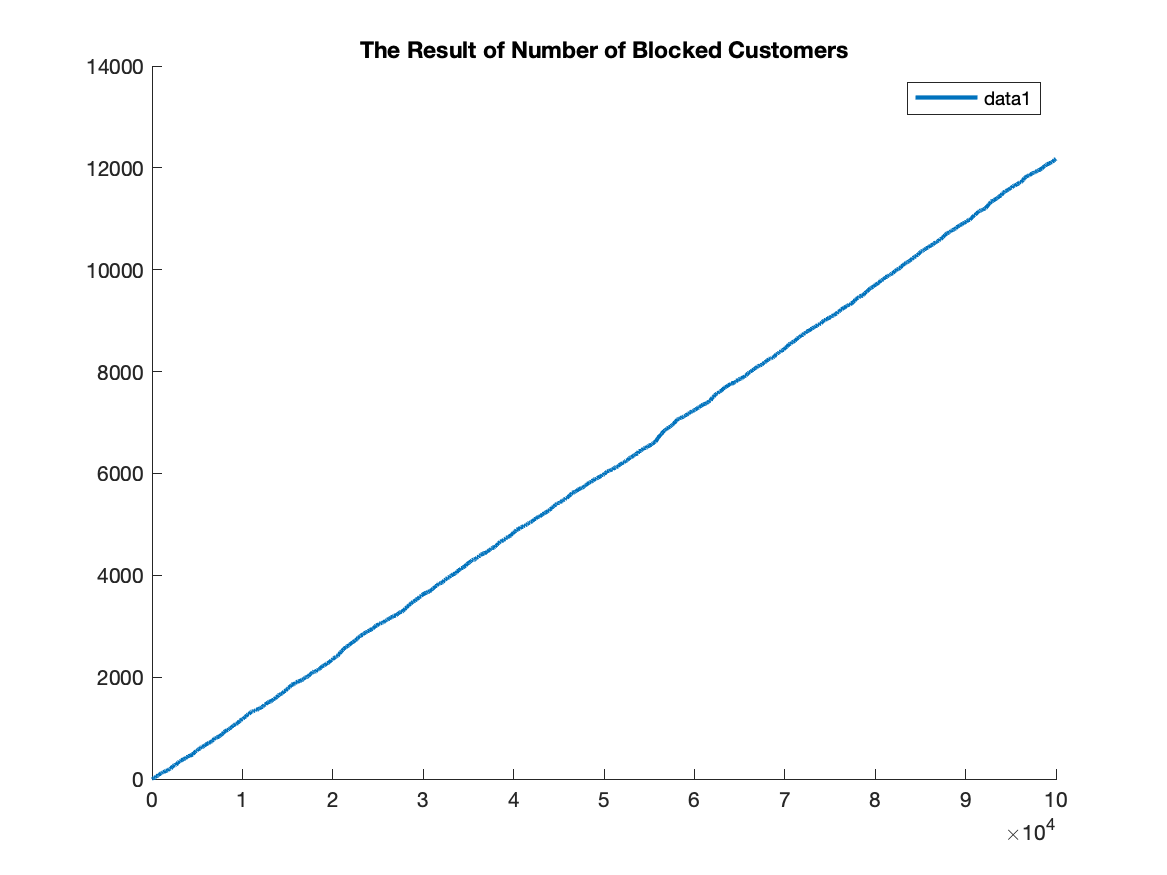
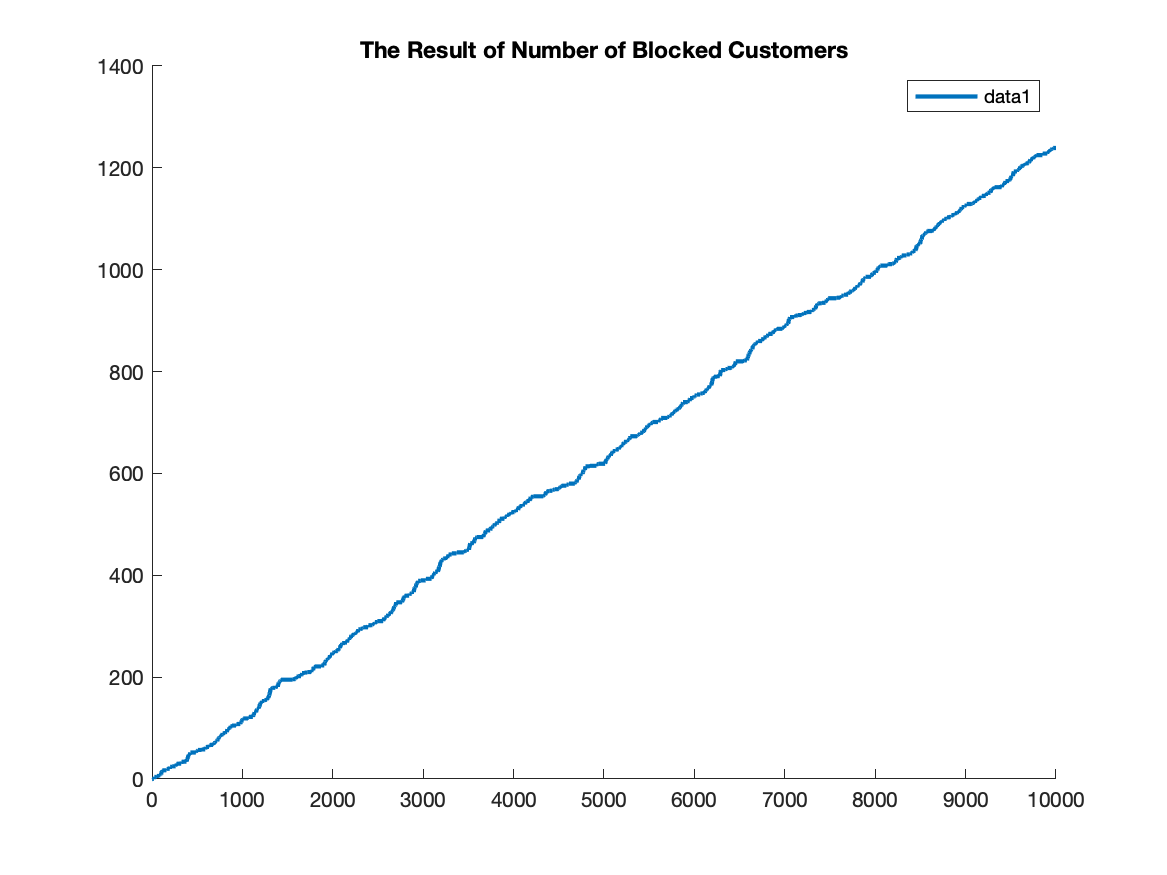
update

diff --git a/exercise4/setup.m b/exercise4/setup.m
@@ -8,13 +8,15 @@
 addpath("~/Documents/GitHub/StochasticSim/exercise4")
 % 1,  Define Basic Parameters ##########################################################################################
 nServer = 10;
-nCustomer = 100000;
-nSim = 10;
-nStable = nCustomer * 0.01;
+nCustomer = 11000;
+nSim = 100;
+nStable = 1000;  % nCustomer * 0.01;
 clockSimZero = 0;
+mu = 1;
+lambda = 8;
 % 2,  Define Functions for Length of Arrival Intervals and Serving Time ################################################
-[funcArrive, vecParaArrive] = getFunc("expArrive");
-[funcServe, vecParaServe] = getFunc("expServe");
+[funcArrive, vecParaArrive] = getFunc("expArrive", mu, lambda);
+[funcServe, vecParaServe] = getFunc("expServe", mu, lambda);
 % 3,  Begin `nSim`-Times Simulations ###################################################################################
 tic
 nEvent = nCustomer;
@@ -52,13 +54,11 @@ fprintf("Control Variate: var(vecZ) = %f.\n", var(vecZ));
 fprintf("Control Variate: lowerConfiInterval(vecZ) = %f.\n", boundLower);
 fprintf("Control Variate: upperConfiInterval(vecZ) = %f.\n", boundUpper);
 % 6,  Functions ########################################################################################################
-function [func, vecPara] = getFunc(whiFunc)
+function [func, vecPara] = getFunc(whiFunc, mu, lambda)
     if whiFunc == "expArrive"
-        mu = 1;
         func = @exprnd;
         vecPara = mu;
     elseif whiFunc == "expServe"
-        lambda = 8;
         func = @exprnd;
         vecPara = lambda;
     elseif  whiFunc == "cons"

diff --git a/exercise4/simDiscreteEvent.m b/exercise4/simDiscreteEvent.m
@@ -7,19 +7,21 @@ function [b, sState] = simDiscreteEvent(clockSimZero, nServer, nEvent, funcArriv
     vecParaServe)
     % 1,  Initiate State Variables
     sState(1).intervalArrive = funcArrive(vecParaArrive);
+    sState(1).timeServe = funcServe(vecParaServe);
     sState(1).clockSim = clockSimZero + sState(1).intervalArrive;
     [sState(1).nCustomerServe, sState(1).nCustomerBlock, sState(1).vecTimeDepart] = updateStateBlock( ...
-        sState(1).clockSim, nServer, 0, 0, zeros(nServer, 1), funcServe, vecParaServe);
+        sState(1).clockSim, nServer, 0, 0, zeros(nServer, 1), sState(1).timeServe);
     sState(1).b = sState(1).nCustomerBlock / 1;
     % 2,  Begin Simulation
     for i = 2:nEvent
         % 2.1,  Next event happens: a new customer has arrived.
         sState(i).intervalArrive = funcArrive(vecParaArrive);
+        sState(i).timeServe = funcServe(vecParaServe);
         sState(i).clockSim = sState(i-1).clockSim + sState(i).intervalArrive;
         % 2.2,  Evolution of State Variables
         [sState(i).nCustomerServe, sState(i).nCustomerBlock, sState(i).vecTimeDepart] = updateStateBlock( ...
             sState(i).clockSim, nServer, sState(i-1).nCustomerServe, sState(i-1).nCustomerBlock, ...
-            sState(i-1).vecTimeDepart, funcServe, vecParaServe);
+            sState(i-1).vecTimeDepart, sState(i).timeServe);
         sState(i).b = sState(i).nCustomerBlock / i;
     end
     b = sState(nEvent).b;

diff --git a/exercise4/updateStateBlock.m b/exercise4/updateStateBlock.m
@@ -4,11 +4,11 @@
 % Version: 2.1
 % ######################################################################################################################
 function [nCustomerServe, nCustomerBlock, vecTimeDepart] = updateStateBlock(clockSim, nServer, nCustomerServe, ...
-    nCustomerBlock, vecTimeDepart, funcServe, vecParaServe)
+    nCustomerBlock, vecTimeDepart, timeServe)
     nCustomerServe = nCustomerServe + 1;
     % Check the departed customers
     for j = 1:nServer
-        if (vecTimeDepart(j) ~= 0) & (vecTimeDepart(j) < clockSim)  % There is a customer and he/she has already left.
+        if (vecTimeDepart(j) ~= 0) & (vecTimeDepart(j) <= clockSim)  % There is a customer and he/she has already left.
             vecTimeDepart(j) = 0;  % The vacancy is set to 0.
             nCustomerServe = nCustomerServe - 1;
         end
@@ -23,6 +23,6 @@ function [nCustomerServe, nCustomerBlock, vecTimeDepart] = updateStateBlock(cloc
         while vecTimeDepart(j) ~= 0
             j = j + 1;
         end
-        vecTimeDepart(j) = clockSim + funcServe(vecParaServe);  % Set the service time
+        vecTimeDepart(j) = clockSim + timeServe;  % Set the service time
     end
 end  % function

diff --git a/exercise4/test.m b/exercise4/test.m
@@ -5,7 +5,7 @@
 % ######################################################################################################################
 % 1,  Define Basic Parameters
 nServer = 10;
-nCustomer = 100000;  % 10000;
+nCustomer = 10000;  % 10000;
 clockSimZero = 0;
 % 2,  Define Functions for Length of Arrival Interval and Serve Time
 [funcArrive, vecParaArrive] = getFunc("expArrive");
